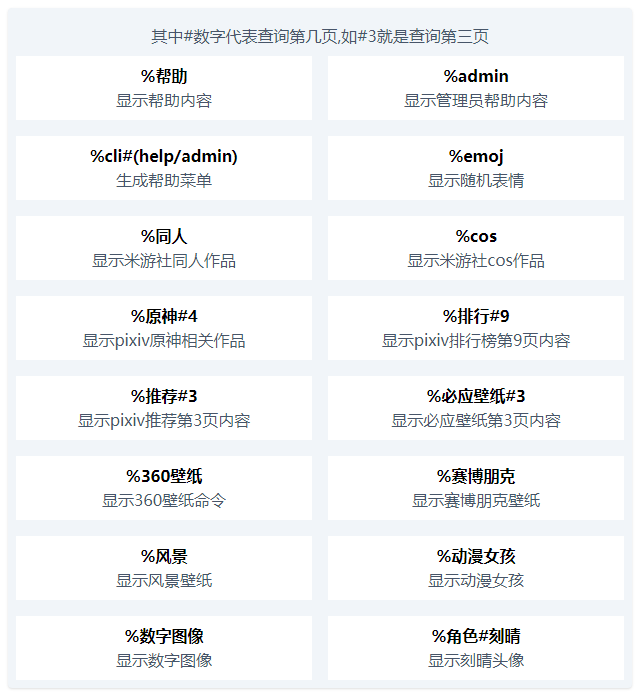
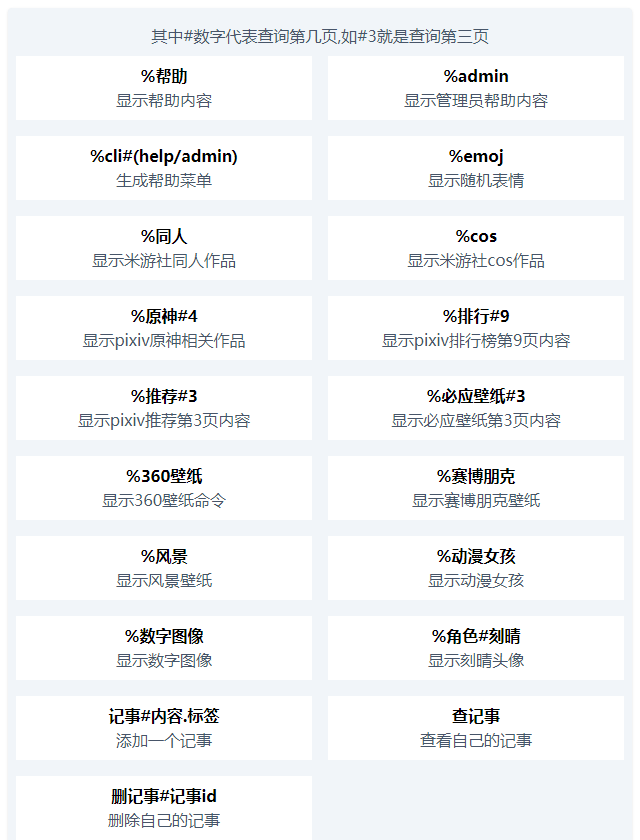
note help

diff --git a/src/action/groupAction.ts b/src/action/groupAction.ts
@@ -30,6 +30,7 @@ import {
 } from "@/util/groupAdmin";
 import { addBlack, checkBlackExists, selectBlacklists } from "@/util/blacklist";
 import { conf } from "@/config";
+import { addNote, delNote, Note, selectNote } from "@/util/note";
 
 /**
  * trycatch要占一个大括号的位置,算了还是用.catch吧
@@ -265,16 +266,21 @@ export async function help(evt: GroupMessageEvent) {
     evt.reply(segment.image(adminPng));
   }
 }
-
+/**
+ * cli#help
+ * @param evt 
+ */
 export async function createCli(evt: GroupMessageEvent) {
   let msg = evt.raw_message;
   if (commonReg.cli.test(msg)) {
     let cliArr = msg.split("#", 2);
     if (cliArr[1] == "help") {
+      console.log('生成帮助文件');
       await genHelp();
       evt.reply(replyMsg.cmdComplete);
     }
     if (cliArr[1] == "admin") {
+      console.log('生成admin指令');
       await genAdmin();
       evt.reply(replyMsg.cmdComplete);
     }
@@ -470,5 +476,69 @@ export function createVersionAction(evt: GroupMessageEvent) {
     console.log(mem);
     let versionInfo = `版本:${version}\n使用内存:${mem}MB`;
     evt.group.sendMsg(versionInfo);
+  }
+}
+
+/**
+ * 添加记事
+ * @param userId qq
+ * @param msg
+ * @param evt
+ * @returns
+ */
+export function addPrivateNote(
+  userId: number,
+  msg: string,
+  evt: GroupMessageEvent
+) {
+  if (commonReg.addNote.test(msg)) {
+    console.log(userId);
+    let noteStr = msg.split("#", 2);
+    let [content, tag] = noteStr[1]?.split(".", 2)!;
+    console.log(content, tag);
+    addNote(content!, tag!, userId);
+    evt.reply("完成");
+    return;
+  }
+}
+/**
+ * 查记事
+ * @param userId
+ * @param msg
+ * @param evt
+ * @returns
+ */
+export function getPrivateNote(
+  userId: number,
+  msg: string,
+  evt: GroupMessageEvent
+) {
+  if (commonReg.getNote.test(msg)) {
+    let notes = selectNote(userId) as Note[];
+    let head = "id,tag,content\n";
+    let res = notes.map((item) => {
+      return `${item.id},${item.tag},${item.content}`;
+    });
+    evt.reply(head + res.join("\n"));
+    return;
+  }
+}
+/**
+ * 删除记事
+ * @param userId
+ * @param msg
+ * @param evt
+ * @returns
+ */
+export function delPrivateNote(
+  userId: number,
+  msg: string,
+  evt: GroupMessageEvent
+) {
+  if (commonReg.delNote.test(msg)) {
+    let [_, noticeId] = msg.split("#", 2);
+    delNote(+noticeId!, userId);
+    evt.reply("删除成功");
+    return;
   }
 }

diff --git a/src/action/privateAction.ts b/src/action/privateAction.ts
@@ -1,53 +1,9 @@
-import { commonReg } from "@/constant/reg";
-import { addNote, delNote, Note, selectNote } from "@/util/note";
 import { PrivateMessageEvent, segment } from "oicq";
 
-export function privateHello(userId:number,msg:string,evt: PrivateMessageEvent) {
-  let flag=commonReg.addNote.test(msg)||commonReg.delNote.test(msg)||commonReg.getNote.test(msg)
-   if (!flag ) {
-     evt.reply(["不要骚扰我啦!", segment.face(38)]);
-   }
- 
-}
-export function addPrivateNote(
+export function privateHello(
   userId: number,
   msg: string,
-  evt: PrivateMessageEvent 
+  evt: PrivateMessageEvent
 ) {
-  if (commonReg.addNote.test(msg)) {
-    console.log(userId);
-    let noteStr = msg.split("#", 2);
-    let [content, tag] = noteStr[1]?.split(".", 2)!;
-    console.log(content, tag);
-    addNote(content!, tag!, userId );
-    evt.reply("完成");
-    return;
-  }
-}
-export function getPrivateNote(
-  userId: number,
-  msg: string,
-  evt: PrivateMessageEvent 
-) {
-  if (commonReg.getNote.test(msg)) {
-    let notes = selectNote(userId ) as Note[];
-    let head = "id,tag,content\n";
-    let res = notes.map((item) => {
-      return `${item.id},${item.tag},${item.content}`;
-    });
-    evt.reply(head + res.join("\n"));
-    return;
-  }
-}
-export function delPrivateNote(
-  userId: number,
-  msg: string,
-  evt: PrivateMessageEvent, 
-) {
-  if (commonReg.delNote.test(msg)) {
-    let [_, noticeId] = msg.split("#", 2);
-    delNote(+noticeId!, userId );
-    evt.reply("删除成功");
-    return;
-  }
+  evt.reply(["不要骚扰我啦!", segment.face(38)]);
 }

diff --git a/src/event/groupEvent.ts b/src/event/groupEvent.ts
@@ -24,12 +24,18 @@ import { Client, GroupMessageEvent, PrivateMessageEvent, segment } from "oicq";
 import { selectSleep } from "@/util/status";
 import { hello } from "@/action/privateGroupAction";
 import { selectBlacklists } from "@/util/blacklist";
+import {
+  addPrivateNote,
+  delPrivateNote,
+  getPrivateNote,
+} from "@/action/groupAction";
 
 export class GroupEvent extends AbstractEvent {
   public load(bot: Client): void {
     bot.on("message.group", async function (evt: GroupMessageEvent) {
       let groupId = evt.group_id;
       let userId = evt.sender.user_id;
+      let msg = evt.raw_message;
       if (evt.atme) {
         createAtAction(evt);
         return;
@@ -42,6 +48,7 @@ export class GroupEvent extends AbstractEvent {
       }
       if (!evt.atme) {
         if (selectBlacklists(groupId).includes(userId)) {
+          console.log(pc.cyan('在黑名单'));
           return;
         }
         createGenshinAvatar(evt);
@@ -76,6 +83,11 @@ export class GroupEvent extends AbstractEvent {
         createCli(evt);
         //360图片
         img360(evt);
+
+        //记事相关
+        addPrivateNote(userId, msg, evt);
+        getPrivateNote(userId, msg, evt);
+        delPrivateNote(userId, msg, evt);
       }
     });
 

diff --git a/src/util/note.ts b/src/util/note.ts
@@ -5,17 +5,17 @@ export interface Note {
   content: string;
 }
 //group为0代表私聊
-export function addNote(content: string, tag: string, userId: number ) {
+export function addNote(content: string, tag: string, userId: number) {
   const stmt = db.prepare(
     "insert into note(id,tag,content,user_id) values(null,?,?,?)"
   );
-  stmt.run(tag, content, userId );
+  stmt.run(tag, content, userId);
 }
-export function selectNote(userId: number ) {
+export function selectNote(userId: number) {
   let stmt = db.prepare(`select id,tag,content from note where user_id=?`);
-  return stmt.all(userId );
+  return stmt.all(userId);
 }
-export function delNote(noticeId: number, userId: number, ) {
+export function delNote(noticeId: number, userId: number) {
   const stmt = db.prepare("delete from note where id= ? and user_id = ?");
-  stmt.run(noticeId, userId );
+  stmt.run(noticeId, userId);
 }

diff --git a/files/help/help.html b/files/help/help.html
@@ -104,7 +104,18 @@
           {
             "cmd": "%角色#刻晴",
             "intro": "显示刻晴头像"
-          }
+          },
+           {
+                  "cmd": "记事#内容.标签",
+                  "intro": "添加一个记事"
+              },
+                 {
+                  "cmd": "查记事",
+                  "intro": "查看自己的记事"
+              },    {
+                  "cmd": "删记事#记事id",
+                  "intro": "删除自己的记事"
+              },
         ]
       });
       const app = createApp({

diff --git a/files/help/admin.html b/files/help/admin.html
@@ -55,17 +55,7 @@
                   "cmd": "black#123456789",
                   "intro": "拉黑123456789"
               },
-   {
-                  "cmd": "记事#内容.标签",
-                  "intro": "添加一个记事"
-              },
-                 {
-                  "cmd": "查记事",
-                  "intro": "查看自己的记事"
-              },    {
-                  "cmd": "删记事#记事id",
-                  "intro": "删除自己的记事"
-              },
+
 
           ]
       });

diff --git a/src/event/privateEvent.ts b/src/event/privateEvent.ts
@@ -14,11 +14,8 @@ export class PrivateEvent extends AbstractEvent {
     bot.on("message.private", function (evt) {
       let msg = evt.raw_message;
       let userId = evt.sender.user_id;
-      // let msg = rawMessage.replace(/@\S*\s*/, "");
-      addPrivateNote(userId, msg, evt);
-      getPrivateNote(userId, msg, evt);
-      delPrivateNote(userId, msg, evt);
-        privateHello(userId,msg,evt);
+
+      privateHello(evt);
     });
   }
 }

diff --git a/src/constant/reg.ts b/src/constant/reg.ts
@@ -11,12 +11,14 @@ export const mihoyoReg = {
   char: /^%角色#[\u4e00-\u9fa5]+/,
 };
 export const commonReg = {
-   
   addNote: /^记事#[0-9a-zA-Z\u4e00-\u9fa5]+\.[0-9a-zA-Z\u4e00-\u9fa5]+/,
   getNote: /^查记事/,
   delNote: /^删记事#\d+/,
   help: /^(%帮助)|(%help)$/,
   version: /^%version$/,
+  /**
+   * cli#help
+   */
   cli: /^%cli#([0-9a-zA-Z\u4e00-\u9fa5]+)?$/,
   poetry: /^%诗词|%古诗$/,
   kfc: /周四|星期四|kfc/,

diff --git a/src/cli/help.ts b/src/cli/help.ts
@@ -9,7 +9,7 @@ export async function genHelp() {
   const page = await browser.newPage();
   await page.setViewport({
     width: 640,
-    height: 700,
+    height: 840,
   });
   let htmlPath = `file://${getPup("help", "help.html")}`;
   console.log(htmlPath);
